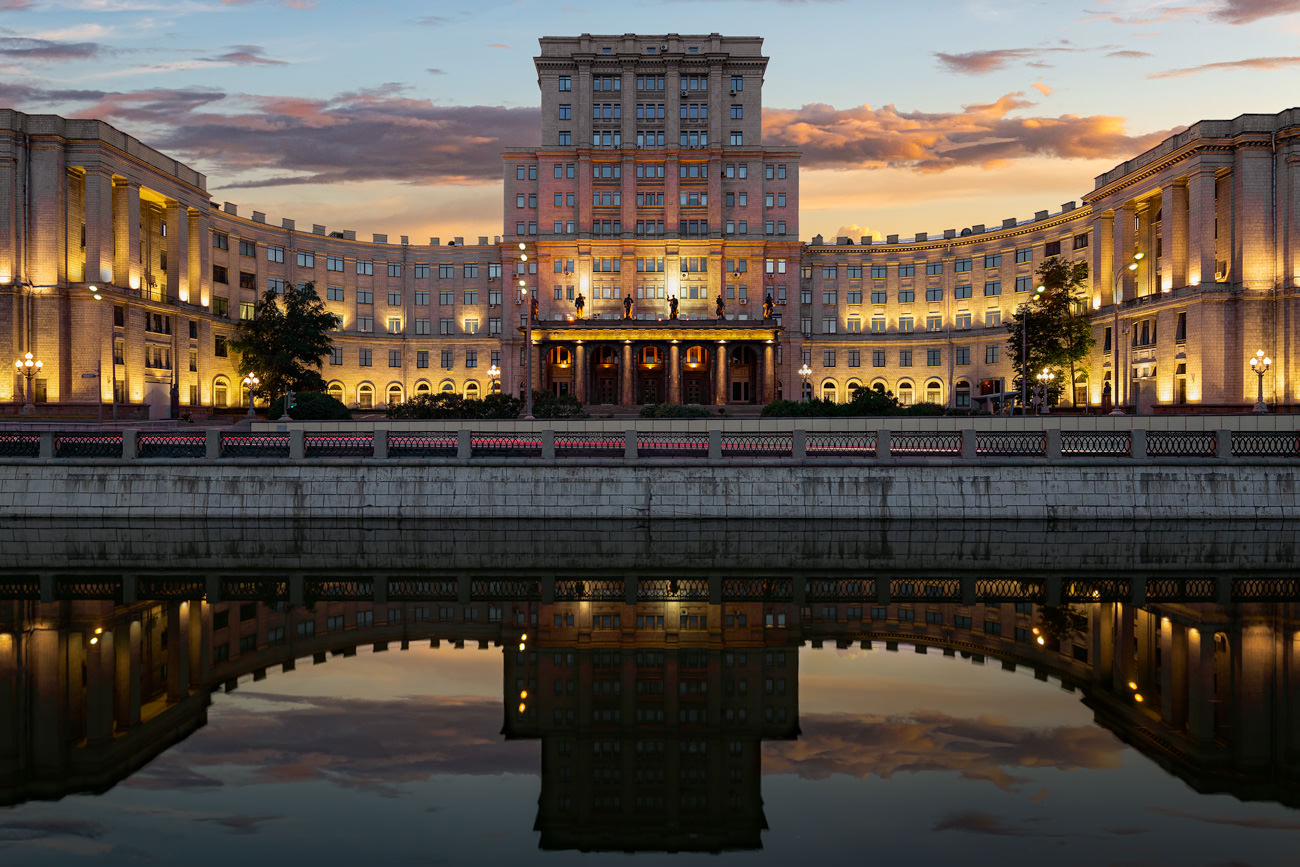
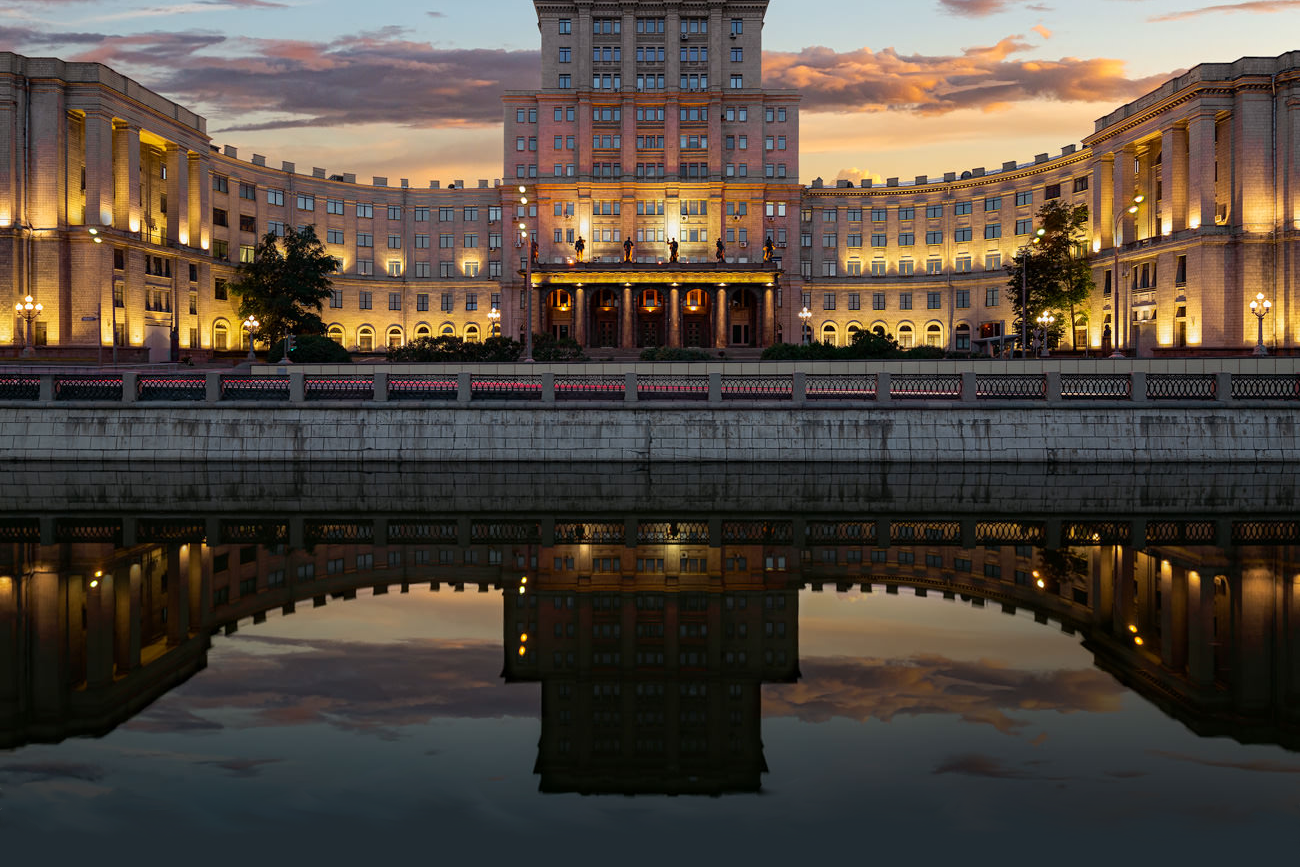
photo was changed

diff --git a/web/css/style.css b/web/css/style.css
@@ -69,7 +69,8 @@ margin-top: 20px;
 }
 /*----slider----*/
 .header{
-	background: url(../images/mgtu.png) #ECF0F1 100% 100%;
+	background: url(../images/mgtu.png) #ECF0F1 80% 100%;
+	background-position: bottom;
 	background-size:cover;
 	-webkit-background-size:cover;
 	-o-background-size:cover;
